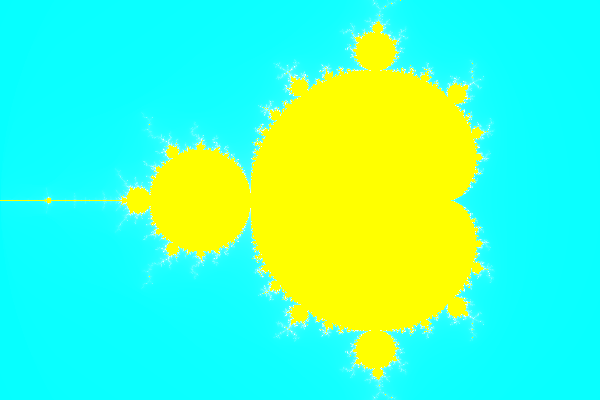
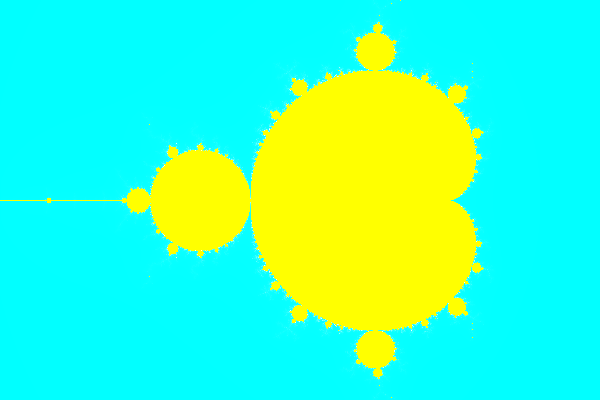
Fix to HSV

Changed region(s): [[0.03, 0.0, 0.84, 1.0]]

diff --git a/mbplot.py b/mbplot.py
@@ -13,12 +13,12 @@ IM_END = 1
 
 palette = []
 
-im = Image.new('RGB', (WIDTH, HEIGHT), (0, 0, 0))
+im = Image.new('HSV', (WIDTH, HEIGHT), (0, 0, 0))
 draw = ImageDraw.Draw(im)
 
 # Iterate over the width pixels to conver coordinate of pixel into a complex number of the complex plane
-for x in range(WIDTH): # range(0, WIDTH)
-    for y in range(HEIGHT): # range(0, HEIGHT)
+for x in range(0, WIDTH): 
+    for y in range(0, HEIGHT): 
 
         # Convert coordinate to complex number
         c = complex(RE_START + (x / WIDTH) * (RE_END - RE_START), IM_START + (y / HEIGHT) * (IM_END - IM_START))
@@ -29,7 +29,6 @@ for x in range(WIDTH): # range(0, WIDTH)
         # Color depends on the number of iterations
         # Adjust color by altering the hue
         hue = int(255 * m / MAX_ITERATIONS)
-        # color = 255 - int(m * 255 / MAX_ITERATIONS)
         saturation = 255
         if m < MAX_ITERATIONS:
             value = 255
@@ -37,7 +36,6 @@ for x in range(WIDTH): # range(0, WIDTH)
             value = 0
 
         # Plot
-        # draw.point([x, y], (color, color, color))
         draw.point([x, y], (hue, saturation, value))
 
 im.convert('RGB').save('output.png', 'PNG')

diff --git a/mandelbrotfractal.py b/mandelbrotfractal.py
@@ -1,7 +1,8 @@
 from math import log, log2
 
 # Return iterations needed to reach mod > 2
-MAX_ITERATIONS = 80
+MAX_ITERATIONS = 500
+
 def mandelbrot(c):
     z = 0
     n = 0
@@ -13,10 +14,10 @@ def mandelbrot(c):
 
     return n + 1 - log(log2(abs(z)))
 
+'''
 if __name__ == "__main__":
     for a in range(-10, 10, 5):
         for b in range(-10, 10, 5):
             c = complex(a / 10, b / 10)
             print(c, mandelbrot(c))
-
-
+'''
